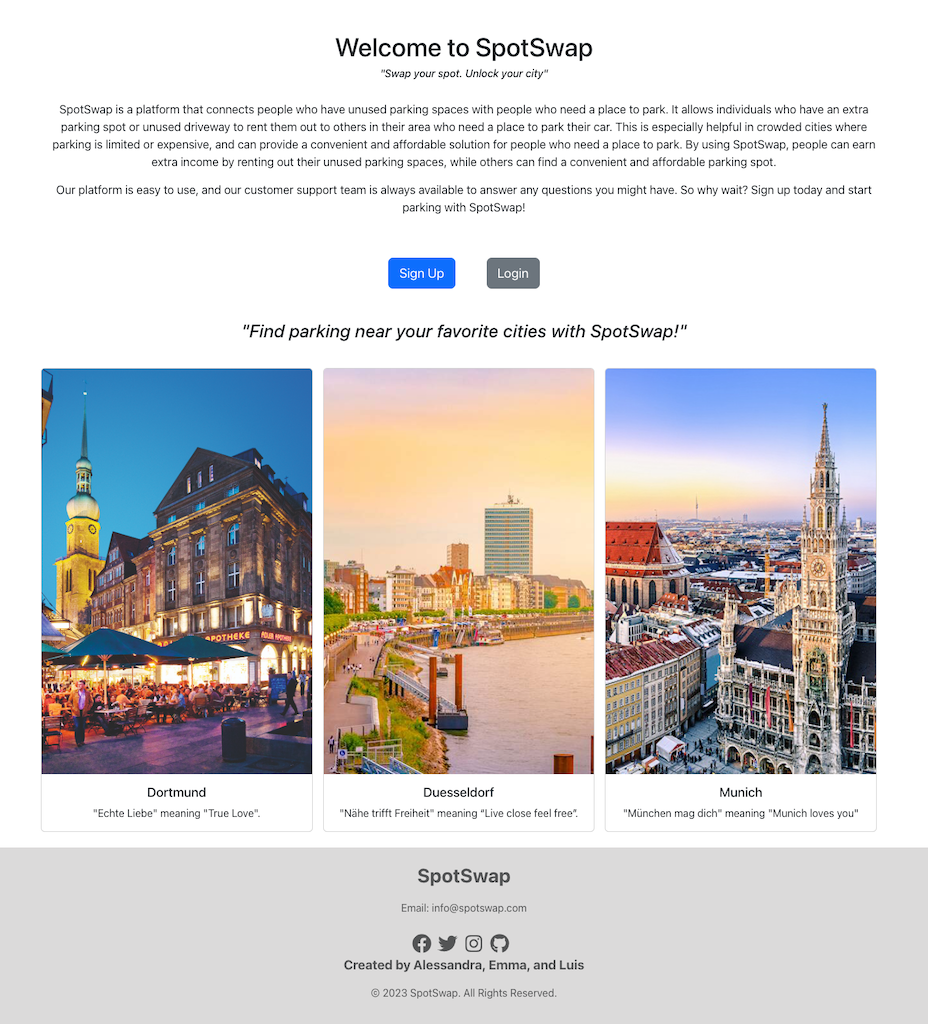
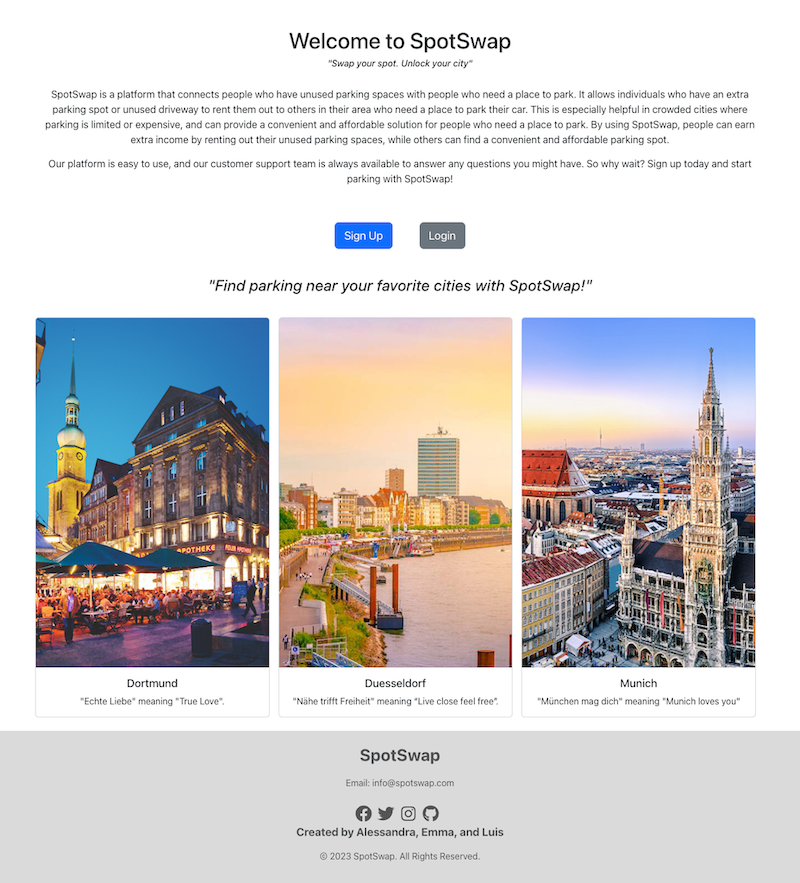
styling home page

diff --git a/src/components/WorkCardStyle.css b/src/components/WorkCardStyle.css
@@ -1,23 +1,45 @@
 .project-heading {
   text-align: center;
   padding: 4rem 0 2rem 0;
+  transition: opacity 0.1s ease;
 }
+
 .project-container {
   max-width: 1140px;
   margin: auto;
   display: grid;
-  grid-template-columns: repeat(3, 1fr);
+  grid-template-columns: repeat(
+    auto-fit,
+    minmax(300px, 1fr)
+  ); /* Update grid-template-columns */
   grid-gap: 40px;
   padding-bottom: 5rem;
 }
+
 .project-card {
+  display: flex;
+  flex-direction: column;
+  justify-content: space-between;
   background: black;
   padding: 1.2rem 1rem;
-  width: 100%;
-  height: 100%;
 }
+
 .project-card img {
   width: 100%;
+  height: auto;
+  display: block;
+}
+
+.project-image {
+  width: 100%;
+  height: 250px; /* Adjust the height as desired */
+  object-fit: cover; /* Ensure the image covers the entire container */
+  border-radius: 10px;
+  transition: opacity 0.5s ease;
+  /* Add other styling properties as needed */
+}
+.project-image:hover {
+  opacity: 0.7; /* Adjust the opacity value as desired */
 }
 .project-title {
   color: white;
@@ -29,25 +51,24 @@
   font-size: 1.1rem;
   text-align: justify;
 }
+
 .pro-btns {
   display: flex;
   justify-content: space-between;
   padding: 0.5rem 0;
 }
+
 .pro-btns .btn {
   padding: 0.5rem 1rem;
 }
+
 .card .btn {
   display: block;
   width: 80%;
   margin: 2rem 0;
 }
-.project-image {
-  width: 100%;
-  height: auto;
-  /* Add other styling properties as needed */
-}
-@media screen and (max-width: 74) {
+
+@media screen and (max-width: 768px) {
   .project-container {
     max-width: 90%;
     margin: auto;

diff --git a/src/routes/Home.js b/src/routes/Home.js
@@ -2,7 +2,7 @@ import React from "react";
 import Navbar from "../components/Navbar";
 import HeroImg from "../components/HeroImg";
 // import WorkCards from "../components/WorkCard";
-import Footer from "../components/Footer";
+// import Footer from "../components/Footer";
 
 const Home = () => {
   return (
@@ -10,7 +10,7 @@ const Home = () => {
       <Navbar />
       <HeroImg />
       {/* <WorkCards /> */}
-      <Footer />
+      {/* <Footer /> */}
     </div>
   );
 };

diff --git a/src/components/FooterStyles.css b/src/components/FooterStyles.css
@@ -1,7 +1,7 @@
 
 .footer {
   width: 100%;
-  padding: 6rem 0;
+  padding: 3rem 0;
   background-color: rgba(19, 19, 19, 0.8);
 }
 

diff --git a/src/components/HeroImgStyle.css b/src/components/HeroImgStyle.css
@@ -26,6 +26,7 @@
   height: 100%;
   width: 100%;
 }
+
 .hero .content {
   position: absolute;
   transform: translate(-50%, -50%);
